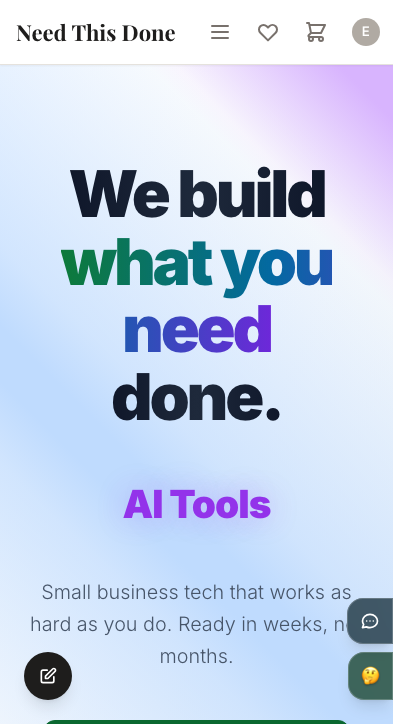
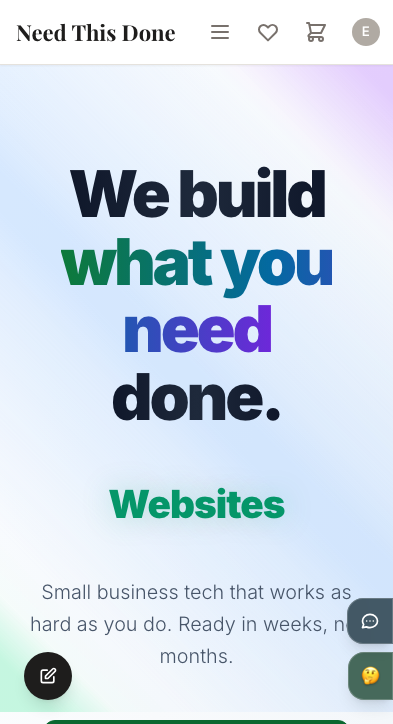
Polish: Dynamic mobile gradient + refined device iframe loading
The hero gradient now measures the midpoint between the subheading and
CTA on mobile, positioning its bottom edge exactly there with a soft
fade-out mask. A dedicated isMobile breakpoint (max-width: 767px) ensures
the inline style only applies to phones — tablets and desktop get
Tailwind's md:bottom-[10%] without JS interference.

- Add isMobile media query matching Tailwind's md: threshold at 768px
- Measure subheading/CTA gap via ResizeObserver for dynamic gradient bottom
- ScaledIframe: configurable loadDelay, hidden scrollbars, absolute layout
- Updated device preview snapshots to match current render output

Now tablets see the gradient they're supposed to, and mobile gets a
gradient cutoff that responds to actual content layout.

diff --git a/app/components/home/sections/Hero.tsx b/app/components/home/sections/Hero.tsx
@@ -67,9 +67,53 @@ function HeroInner({
   // left-to-right gives: Websites (tablet=0) -> Automations (hero=1) -> AI Tools (phone=2)
   const effectivePhase = isDesktop ? 1 : initialPhase;
 
+  // Mobile-specific breakpoint: matches Tailwind's `md:` threshold exactly.
+  // Below 768px = mobile (dynamic gradient), 768px+ = Tailwind's md:bottom-[10%].
+  const [isMobile, setIsMobile] = useState(true);
+
+  useEffect(() => {
+    const mql = window.matchMedia('(max-width: 767px)');
+    setIsMobile(mql.matches);
+    const handler = (e: MediaQueryListEvent) => setIsMobile(e.matches);
+    mql.addEventListener('change', handler);
+    return () => mql.removeEventListener('change', handler);
+  }, []);
+
   const [currentKeywordIndex, setCurrentKeywordIndex] = useState(initialPhase % keywords.length);
   const [mousePosition, setMousePosition] = useState({ x: 0, y: 0 });
   const sectionRef = useRef<HTMLDivElement>(null);
+  const subheadingRef = useRef<HTMLParagraphElement>(null);
+  const ctaRef = useRef<HTMLDivElement>(null);
+
+  // Dynamic gradient bottom: measure the midpoint between subheading and CTA,
+  // then position the gradient's bottom edge there (mobile only).
+  const [gradientBottomPx, setGradientBottomPx] = useState<number | null>(null);
+
+  const measureGradient = useCallback(() => {
+    if (!sectionRef.current || !subheadingRef.current || !ctaRef.current) return;
+    const sectionRect = sectionRef.current.getBoundingClientRect();
+    const subRect = subheadingRef.current.getBoundingClientRect();
+    const ctaRect = ctaRef.current.getBoundingClientRect();
+
+    // Section-relative positions (scroll-independent)
+    const subBottom = subRect.bottom - sectionRect.top;
+    const ctaTop = ctaRect.top - sectionRect.top;
+    const midpoint = (subBottom + ctaTop) / 2;
+
+    // CSS `bottom` = distance from section's bottom edge
+    setGradientBottomPx(sectionRect.height - midpoint);
+  }, []);
+
+  useEffect(() => {
+    // Delay initial measure so entrance animations (y:20 transforms) settle.
+    // Subheading: delay 0.4 + duration 0.6 = 1s; CTA: delay 0.5 + duration 0.6 = 1.1s
+    const timer = setTimeout(measureGradient, 1200);
+
+    const observer = new ResizeObserver(measureGradient);
+    if (sectionRef.current) observer.observe(sectionRef.current);
+
+    return () => { clearTimeout(timer); observer.disconnect(); };
+  }, [measureGradient]);
 
   // Layout debug tool state (dev only)
   const [debugActive, setDebugActive] = useState(debugFromUrl);
@@ -149,7 +193,18 @@ function HeroInner({
       <div className="absolute inset-0 bg-gradient-to-br from-white via-slate-50 to-slate-100 z-0" />
 
       {/* Smooth directional gradient with subtle animation */}
-      <div className="absolute inset-x-0 top-0 bottom-[10%] md:bottom-[35%] z-0 overflow-hidden">
+      <div
+        className="absolute inset-x-0 top-0 bottom-[40%] md:bottom-[10%] z-0 overflow-hidden"
+        style={
+          isMobile && gradientBottomPx != null
+            ? {
+                bottom: `${gradientBottomPx}px`,
+                WebkitMaskImage: 'linear-gradient(to bottom, black calc(100% - 24px), transparent 100%)',
+                maskImage: 'linear-gradient(to bottom, black calc(100% - 24px), transparent 100%)',
+              }
+            : undefined
+        }
+      >
         {/* Main directional gradient: green and purple as edges, blue in middle */}
         <motion.div
           className="absolute inset-0"
@@ -323,6 +378,7 @@ function HeroInner({
 
         {/* Subheading — Refined, secondary */}
         <motion.p
+          ref={subheadingRef}
           className="text-lg sm:text-xl text-slate-600 max-w-2xl mx-auto mb-12 leading-relaxed font-light"
           initial={{ opacity: 0, y: 20 }}
           animate={{ opacity: 1, y: 0 }}
@@ -333,6 +389,7 @@ function HeroInner({
 
         {/* CTA Button — Magnetic, Glowing */}
         <motion.div
+          ref={ctaRef}
           className="mb-16"
           initial={{ opacity: 0, scale: 0.8, y: 20 }}
           animate={{ opacity: 1, scale: 1, y: 0 }}

diff --git a/app/components/DeviceShowcase/ScaledIframe.tsx b/app/components/DeviceShowcase/ScaledIframe.tsx
@@ -19,6 +19,8 @@ interface ScaledIframeProps {
   onLoad?: () => void;
   /** Static image shown instantly while iframe loads — same resolution as native content */
   placeholderSrc?: string;
+  /** ms to wait after iframe onLoad before crossfading (lets page animations settle) */
+  loadDelay?: number;
 }
 
 export default function ScaledIframe({
@@ -27,8 +29,11 @@ export default function ScaledIframe({
   nativeHeight,
   onLoad,
   placeholderSrc,
+  loadDelay = 1500,
 }: ScaledIframeProps) {
   const containerRef = useRef<HTMLDivElement>(null);
+  const iframeRef = useRef<HTMLIFrameElement>(null);
+  const loadDelayRef = useRef<number>(0);
   const [scale, setScale] = useState(0);
   const [loaded, setLoaded] = useState(false);
 
@@ -62,7 +67,13 @@ export default function ScaledIframe({
   // Reset loaded state when URL changes
   useEffect(() => {
     setLoaded(false);
+    clearTimeout(loadDelayRef.current);
   }, [url]);
+
+  // Clean up delay timer on unmount
+  useEffect(() => {
+    return () => clearTimeout(loadDelayRef.current);
+  }, []);
 
   // Notify parent when content finishes loading (iframe onLoad or 8s fallback)
   useEffect(() => {
@@ -72,7 +83,7 @@ export default function ScaledIframe({
   return (
     <div
       ref={containerRef}
-      style={{ width: '100%', height: '100%', position: 'relative', overflow: 'hidden' }}
+      style={{ position: 'absolute', inset: 0, overflow: 'hidden' }}
     >
       {/* Placeholder image — shown instantly while iframe loads, then crossfades out */}
       {placeholderSrc && scale > 0 && (
@@ -83,7 +94,7 @@ export default function ScaledIframe({
           style={{
             width: nativeWidth + 1,
             height: nativeHeight,
-            objectFit: 'cover',
+            maxWidth: 'none',
             transformOrigin: '0 0',
             transform: `scale(${scale})`,
             position: 'absolute',
@@ -132,11 +143,33 @@ export default function ScaledIframe({
       {/* Scaled iframe at native resolution */}
       {scale > 0 && (
         <iframe
+          ref={iframeRef}
           src={url}
           title="Device preview"
           loading="lazy"
           sandbox="allow-scripts allow-same-origin allow-forms allow-popups"
-          onLoad={() => setLoaded(true)}
+          onLoad={() => {
+            // Hide scrollbar visually but keep scroll functionality so
+            // content width matches the placeholder image (no ~15px shift)
+            try {
+              const doc = iframeRef.current?.contentDocument;
+              if (doc && !doc.getElementById('__hide-scrollbar')) {
+                const style = doc.createElement('style');
+                style.id = '__hide-scrollbar';
+                style.textContent =
+                  'html::-webkit-scrollbar{display:none}html{scrollbar-width:none;-ms-overflow-style:none}';
+                doc.head.appendChild(style);
+              }
+            } catch {
+              // Cross-origin — scrollbar stays visible, acceptable fallback
+            }
+
+            if (loadDelay > 0) {
+              loadDelayRef.current = window.setTimeout(() => setLoaded(true), loadDelay);
+            } else {
+              setLoaded(true);
+            }
+          }}
           style={{
             width: nativeWidth + 1,
             height: nativeHeight,
@@ -146,8 +179,7 @@ export default function ScaledIframe({
             position: 'absolute',
             top: 0,
             left: 0,
-            opacity: loaded ? 1 : 0,
-            transition: 'opacity 0.5s ease',
+            opacity: 1,
           }}
         />
       )}
